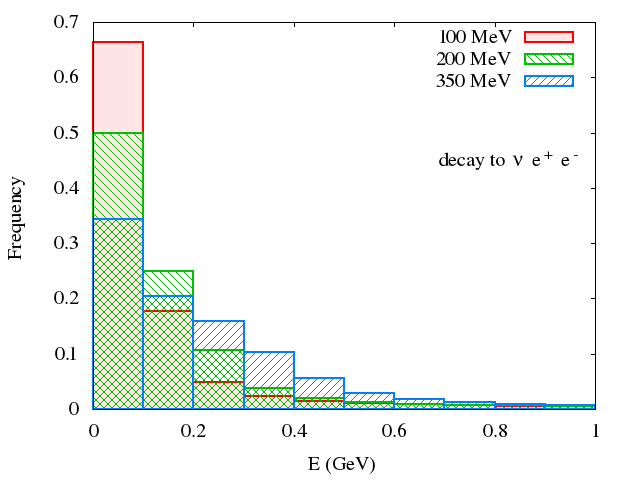
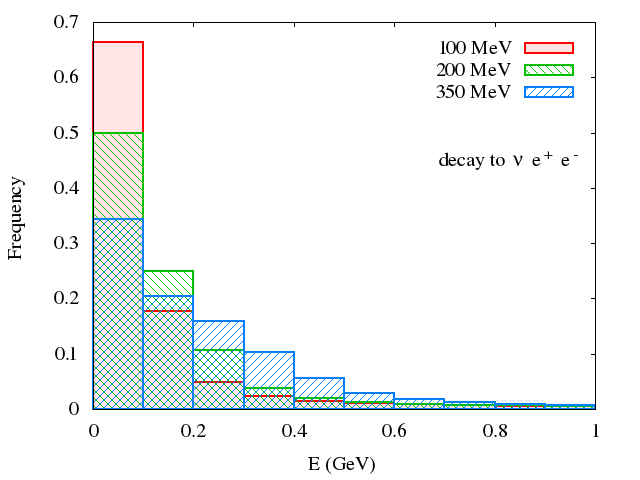
Tweaks to spectra.

Changed region(s): [[0.6875, 0.0625, 0.9062, 0.2188]]

diff --git a/main.tex b/main.tex
@@ -614,7 +614,7 @@ at the 90\% C.L. Although the scenario for $m_N > m_{\pi^0}$ has not been studie
 %
 \center
 %
-\includegraphics[width=0.47\textwidth]{figures/spectrum_ee.png} \includegraphics[width=0.47\textwidth]{figures/spectrum_ee_cuts.png}
+\includegraphics[width=0.47\textwidth]{figures/spectrum_ee_truth.png} \includegraphics[width=0.47\textwidth]{figures/spectrum_ee_truth_cuts.png}
 %
 \caption{\label{fig:spectrum_ee} Characteristic spectra for the total energy of observed  $e^+e^-$ pairs seen at \muboone\ produced in the $\ster \to \nu e^+e^-$ decay mode. The three distributions correspond to parent sterile masses given in the legend. We see a preference for low energy events, with most events with energies below $0.4$ GeV. The modal peak of the distribution moves to higher energies as the mass of the sterile neutrino increases. On the left, the spectra have no analysis cuts or detector reconstruction effects applied, while on the right these are included, decreasing the discriminatory power of the lowest energy events.}
 %
@@ -624,7 +624,7 @@ at the 90\% C.L. Although the scenario for $m_N > m_{\pi^0}$ has not been studie
 %
 \center
 %
-\includegraphics[width=0.47\textwidth]{figures/spectrum_ee.png} \includegraphics[width=0.47\textwidth]{figures/spectrum_ee_smeared.png}
+\includegraphics[width=0.47\textwidth]{figures/spectrum_ee_truth.png} \includegraphics[width=0.47\textwidth]{figures/spectrum_ee_smeared.png}
 %
 \caption{\label{fig:spectrum_ee} Characteristic spectra for the total energy of observed  $e^+e^-$ pairs seen at \muboone\ produced in the $\ster \to \nu e^+e^-$ decay mode. The three distributions correspond to parent sterile masses given in the legend. We see a preference for low energy events, with most events with energies below $0.4$ GeV. On the left, we see the events without any detector resolution effects, and the distribution has a peak at low energies which is seen to move to higher energies as the mass of the sterile neutrino increases. On the right, a Gaussian smearing has been applied to the total energy. Here we see that the distributions are more uniform but the ratio of events above $0.4$ GeV could serve as a mass sensitive parameter.}
 %
@@ -634,7 +634,7 @@ at the 90\% C.L. Although the scenario for $m_N > m_{\pi^0}$ has not been studie
 %
 \center
 %
-\includegraphics[width=0.47\textwidth]{figures/spectrum_ee.png} \includegraphics[width=0.47\textwidth]{figures/spectrum_ee_situ.png}
+\includegraphics[width=0.47\textwidth]{figures/spectrum_ee_truth.png} \includegraphics[width=0.47\textwidth]{figures/spectrum_ee_situ.png}
 %
 \caption{\label{fig:spectrum_ee} Characteristic spectra for the total energy of observed  $e^+e^-$ pairs seen at \muboone\ produced in the $\ster \to \nu e^+e^-$ decay mode by decay in flight (left) and by \emph{in situ} production and decay (right). The three distributions correspond to parent sterile masses given in the legend. We see a preference for low energy decay in flight events, with most events with energies below $0.4$ GeV, and the modal peak moving to higher energies as the parent mass increases. Although the same trend is seen for the \emph{in situ} production, low-energy suppression arising from the initial neutral current cross section produces a significantly broader distribution.}
 %
